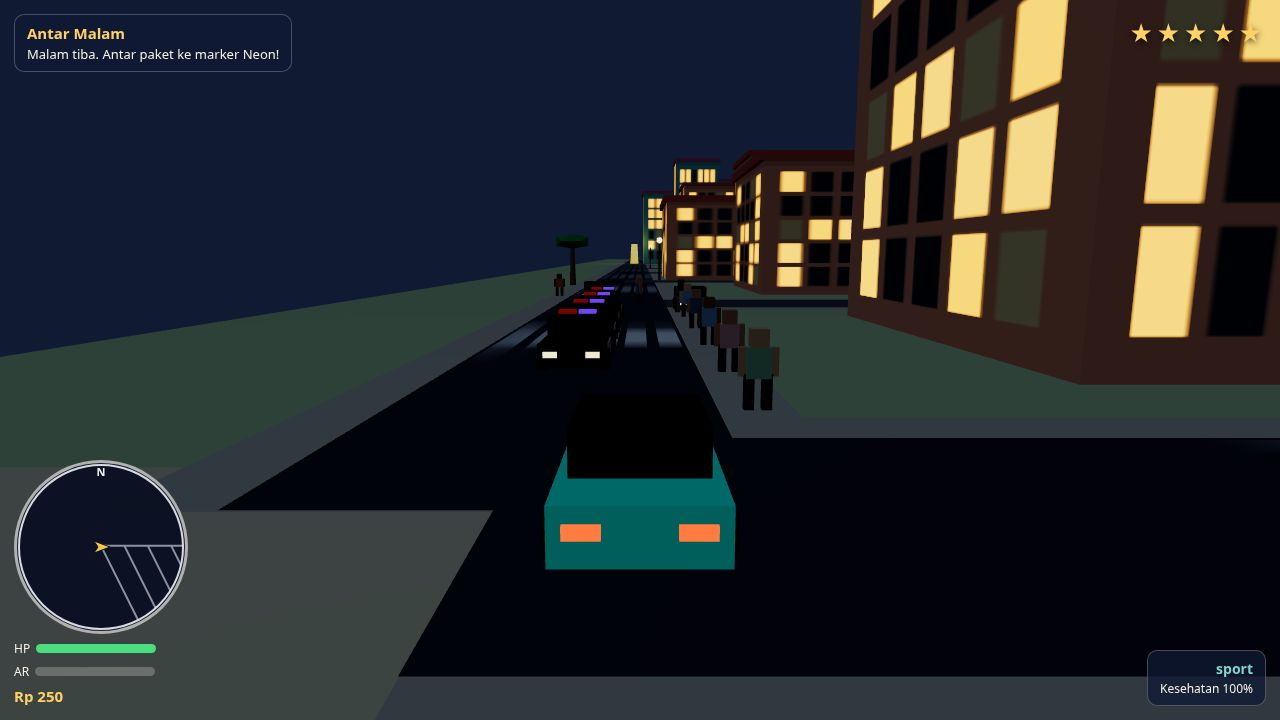
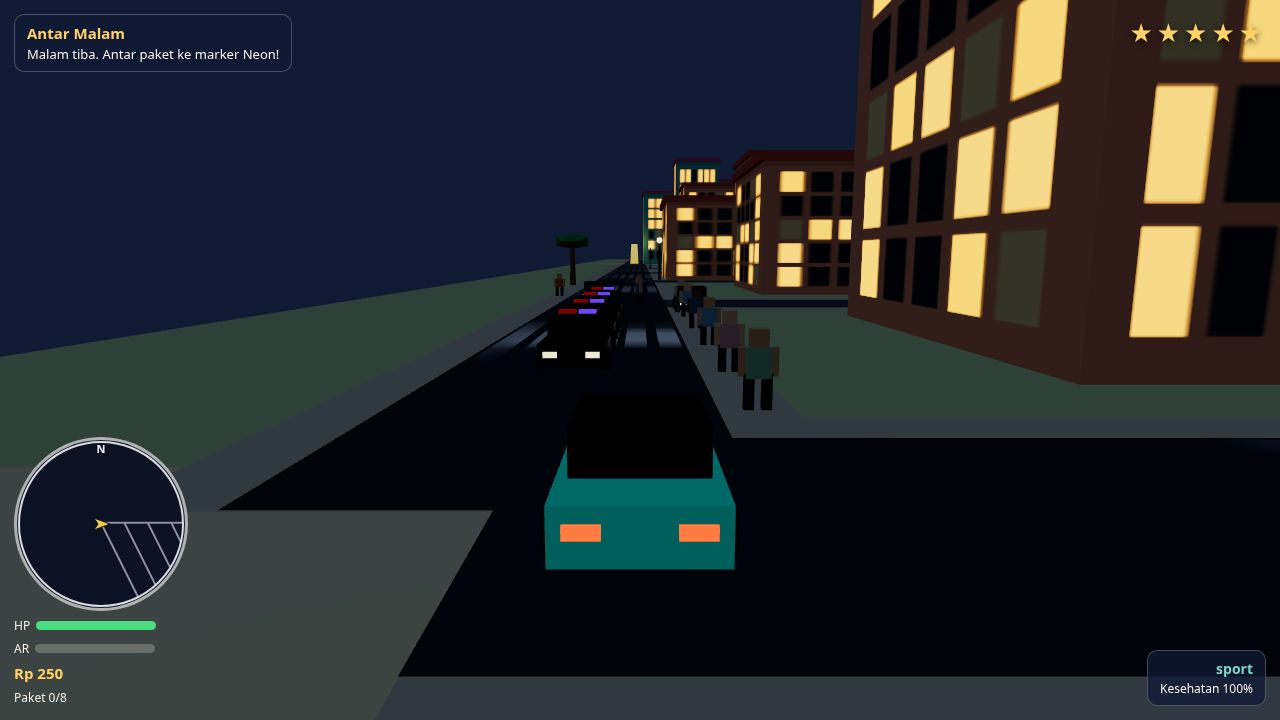
Checkpoint 10: Paket Tersembunyi side activity — 8 paket deterministik, +Rp 150, counter + minimap + save

Changed region(s): [[0.0, 0.5806, 0.1562, 0.9778], [0.5312, 0.3972, 0.5625, 0.4583]]

diff --git a/game/src/packages.js b/game/src/packages.js
@@ -1,0 +1,97 @@
+import * as THREE from 'three';
+import { CITY } from './config.js';
+
+// Paket Tersembunyi (tesis §4.3): side activity free-roam — 8 paket emas di
+// 4 distrik (2/distrik), posisi deterministik dari seed via rng yang di-pass.
+// Dikumpul jalan kaki dalam radius 2,5 unit, +Rp 150 per paket.
+const TOTAL = 8;
+const REWARD = 150;
+const RADIUS = 2.5;
+const DISTRICTS = ['artdeco', 'neon', 'port', 'residential'];
+
+export function createPackages(scene, graph, rng) {
+  const nodes = graph && Array.isArray(graph.nodes) ? graph.nodes : [];
+  const rand = typeof rng === 'function' ? rng : Math.random;
+  const items = [];
+  const used = new Set();
+  // Offset diagonal 4,6 (pola lampu kota city.js): paket di sudut trotoar,
+  // bukan di tengah jalan. Node tepi (±220) dikecualikan: offsetnya jatuh di
+  // luar batas jalan pemain (±218) sehingga paket tak terjangkau.
+  const EDGE = CITY.half - 20;
+  for (const d of DISTRICTS) {
+    const pool = nodes.filter((n) => n.district === d
+      && Math.abs(n.x) < EDGE && Math.abs(n.z) < EDGE);
+    for (let k = 0; k < 2 && pool.length; k++) {
+      let n = null;
+      for (let t = 0; t < 8; t++) {
+        const c = pool[Math.floor(rand() * pool.length)];
+        if (!used.has(c.id)) { n = c; break; }
+      }
+      if (!n) continue;
+      used.add(n.id);
+      items.push({ id: items.length,
+        x: n.x + (rand() < 0.5 ? -4.6 : 4.6), z: n.z + (rand() < 0.5 ? -4.6 : 4.6),
+        group: null, taken: false });
+    }
+  }
+
+  function buildMesh(it) {
+    if (!scene || typeof scene.add !== 'function') return;
+    const g = new THREE.Group();
+    const box = new THREE.Mesh(new THREE.BoxGeometry(0.6, 0.4, 0.6),
+      new THREE.MeshStandardMaterial({ color: 0xf2c94c, emissive: 0xffc400, emissiveIntensity: 1.4 }));
+    box.position.y = 0.5;
+    // Beam vertikal ala beacon misi tapi lebih kecil; MeshBasicMaterial tanpa
+    // point light per paket (hemat perf) tapi tetap terlihat.
+    const beam = new THREE.Mesh(new THREE.CylinderGeometry(0.45, 0.6, 5, 12, 1, true),
+      new THREE.MeshBasicMaterial({ color: 0xf2c94c, transparent: true, opacity: 0.35, side: THREE.DoubleSide, depthWrite: false }));
+    beam.position.y = 2.5;
+    g.add(box, beam);
+    g.position.set(it.x, 0, it.z);
+    scene.add(g);
+    it.group = g;
+  }
+  for (const it of items) buildMesh(it);
+
+  const collected = new Set();
+
+  function collect(it, ctx) {
+    it.taken = true;
+    collected.add(it.id);
+    if (it.group) it.group.visible = false;
+    if (ctx && typeof ctx.money === 'number') ctx.money += REWARD;
+    if (ctx && typeof ctx.toast === 'function') ctx.toast(`Paket tersembunyi +Rp ${REWARD} (${collected.size}/${TOTAL})`);
+  }
+
+  function update(dt, ctx) {
+    const p = ctx && ctx.player;
+    if (!p || !p.pos || !p.onFoot) return;
+    for (const it of items) {
+      if (!it.taken && Math.hypot(p.pos.x - it.x, p.pos.z - it.z) < RADIUS) collect(it, ctx);
+    }
+  }
+
+  function reset() {
+    collected.clear();
+    for (const it of items) { it.taken = false; if (it.group) it.group.visible = true; }
+  }
+
+  function loadCollected(ids) {
+    reset();
+    if (!Array.isArray(ids)) return;
+    for (const id of ids) {
+      const it = items.find((i) => i.id === id);
+      if (it) { it.taken = true; collected.add(it.id); if (it.group) it.group.visible = false; }
+    }
+  }
+
+  return {
+    update,
+    reset,
+    loadCollected,
+    collectedIds() { return [...collected].sort((a, b) => a - b); },
+    count() { return collected.size; },
+    total: TOTAL,
+    markers() { return items.filter((i) => !i.taken).map(({ x, z }) => ({ x, z })); },
+  };
+}

diff --git a/game/src/hud.js b/game/src/hud.js
@@ -68,6 +68,7 @@ export function createHud() {
     armorText: $('armor-text'),
     wantedStars: $('wanted-stars'),
     money: $('money'),
+    packagesCount: $('packages-count'),
     objectivePanel: $('objective-panel'),
     objectiveTitle: $('objective-title'),
     objectiveText: $('objective-text'),
@@ -98,6 +99,7 @@ export function createHud() {
     health: null,
     armor: null,
     money: null,
+    packagesCount: null,
     wanted: null,
     escaping: null,
     blinkPhase: null,
@@ -207,6 +209,18 @@ export function createHud() {
       mm.fill();
     }
 
+    if (Array.isArray(data.packages)) {
+      mm.fillStyle = '#f2c94c';
+      for (const pk of data.packages) {
+        const p = normPoint(pk);
+        if (p && inView(p.x, p.z)) {
+          mm.beginPath();
+          mm.arc(toX(p.x), toY(p.z), 3, 0, Math.PI * 2);
+          mm.fill();
+        }
+      }
+    }
+
     if (data.wanted > 0 && Array.isArray(data.policeUnits)) {
       mm.fillStyle = '#4f8ef7';
       for (const u of data.policeUnits) {
@@ -265,6 +279,7 @@ export function createHud() {
       health: pick(raw.playerHealth, raw.health),
       armor: raw.armor,
       money: raw.money,
+      packagesCount: raw.packagesCount,
       wanted,
       escaping: !!escaping,
       missionTitle:
@@ -286,6 +301,7 @@ export function createHud() {
         policeUnits,
         missionMarker: pick(mm.missionMarker, raw.missionMarker),
         safehouse: pick(mm.safehouse, raw.safehouse),
+        packages: pick(mm.packages, raw.packages),
       },
     };
   }
@@ -315,6 +331,11 @@ export function createHud() {
         void el.money.offsetWidth;
         el.money.classList.add('flash');
       }
+    }
+
+    if (typeof state.packagesCount === 'number' && state.packagesCount !== last.packagesCount) {
+      last.packagesCount = state.packagesCount;
+      if (el.packagesCount) el.packagesCount.textContent = `Paket ${state.packagesCount}/8`;
     }
 
     {
@@ -394,6 +415,7 @@ export function createHud() {
         policeUnits: state.minimap.policeUnits,
         missionMarker: state.minimap.missionMarker,
         safehouse: state.minimap.safehouse,
+        packages: state.minimap.packages,
         wanted: state.wanted || 0,
       });
     }

diff --git a/game/src/main.js b/game/src/main.js
@@ -20,6 +20,7 @@ import { createTraffic } from './traffic.js';
 import { createPedestrians } from './pedestrians.js';
 import { createPolice } from './police-pursuit.js';
 import { createMissions } from './missions.js';
+import { createPackages } from './packages.js';
 import { createHud } from './hud.js';
 import { createAudio } from './audio.js';
 import { createSaveSystem } from './save.js';
@@ -86,6 +87,7 @@ const ctx = {
 };
 const missions = createMissions(ctx);
 ctx.missions = missions;
+const packages = createPackages(scene, graph, rng);
 
 const game = {
   player,
@@ -94,6 +96,7 @@ const game = {
   traffic,
   pedestrians,
   missions,
+  packages,
   graph,
   dayNight,
   hud,
@@ -131,6 +134,7 @@ function startGame(fresh) {
     player.armor = 0;
     if (missions.reset) missions.reset();
     if (police.reset) police.reset();
+    packages.reset();
   } else {
     const saved = saveSystem.load(1);
     if (saved) {
@@ -138,6 +142,7 @@ function startGame(fresh) {
       if (typeof saved.health === 'number') player.health = saved.health;
       if (typeof saved.timeHours === 'number') dayNight.setTime(saved.timeHours);
       if (missions.loadState) missions.loadState(saved);
+      if (Array.isArray(saved.packages)) packages.loadCollected(saved.packages);
     }
   }
   audio.ensure();
@@ -227,6 +232,7 @@ function step(dt) {
   pedestrians.update(dt, ctx);
   police.update(dt, ctx);
   missions.update(dt, ctx);
+  packages.update(dt, ctx);
   dayNight.update(dt);
 
   const mode = player.onFoot ? 'foot' : 'drive';
@@ -266,6 +272,8 @@ function step(dt) {
     graph,
     police: police.units || [],
     missionMarker: missions.markerPos || null,
+    packages: packages.markers(),
+    packagesCount: packages.count(),
   });
 
   if (audio.setEngine) {
@@ -317,6 +325,7 @@ function runGame() {
       health: player.health,
       timeHours: dayNight.timeHours,
       mission: missions.active,
+      packages: packages.collectedIds(),
       pos: player.pos,
     });
     hud.toast('Disimpan ke slot 1');

diff --git a/game/index.html b/game/index.html
@@ -15,6 +15,7 @@
     <div class="bar-row"><span>HP</span><div class="bar" id="health-bar"><div style="width:100%"></div></div></div>
     <div class="bar-row"><span>AR</span><div class="bar" id="armor-bar"><div style="width:0%"></div></div></div>
     <div class="bar-row"><span id="money">Rp 250</span></div>
+    <div class="bar-row"><span id="packages-count">Paket 0/8</span></div>
   </div>
   <div id="wanted-stars" aria-label="Wanted level"></div>
   <div id="objective-panel" class="panel"><h2 id="objective-title">Teluk Cahaya</h2><p id="objective-text">Bicara dengan pemberi misi pertama.</p></div>
